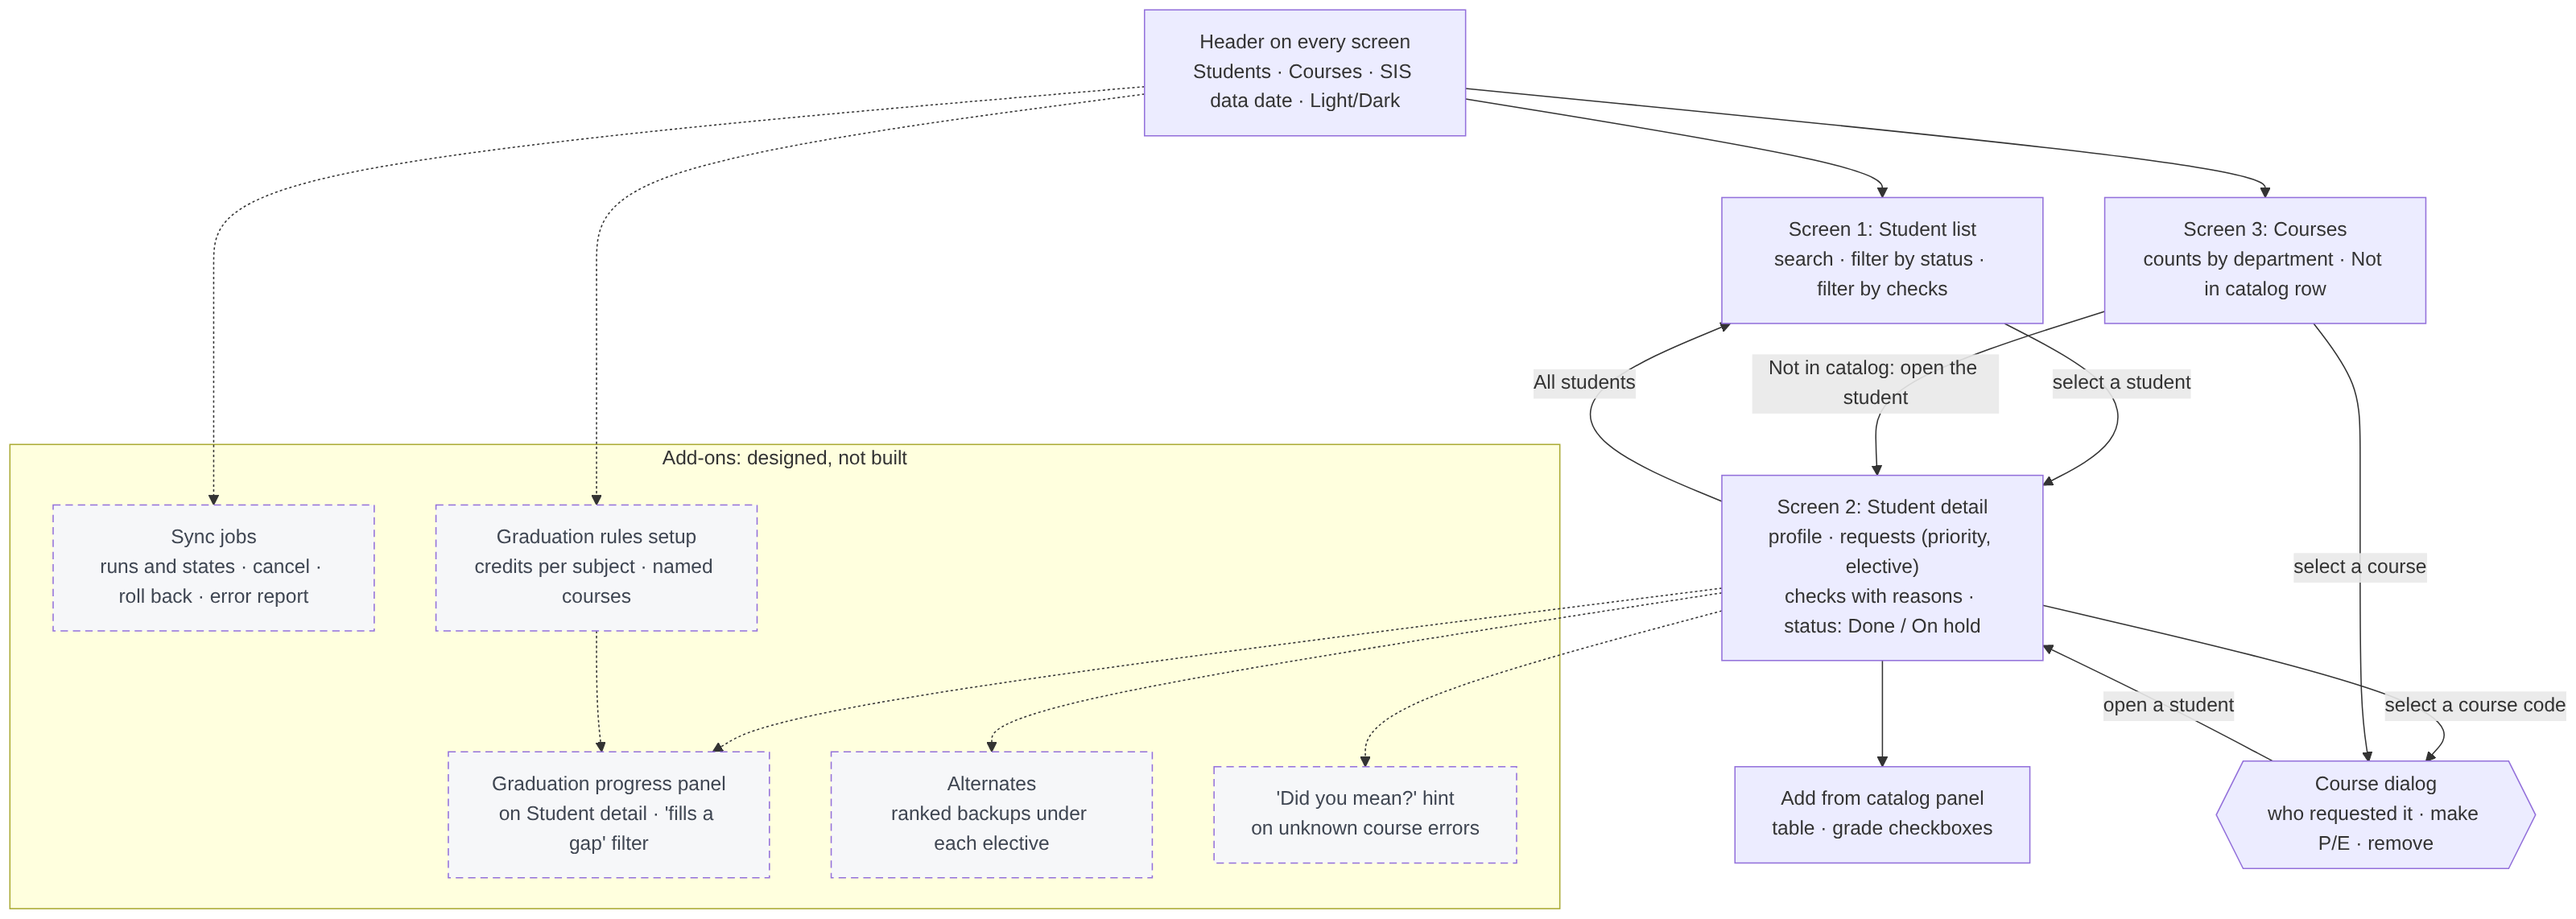
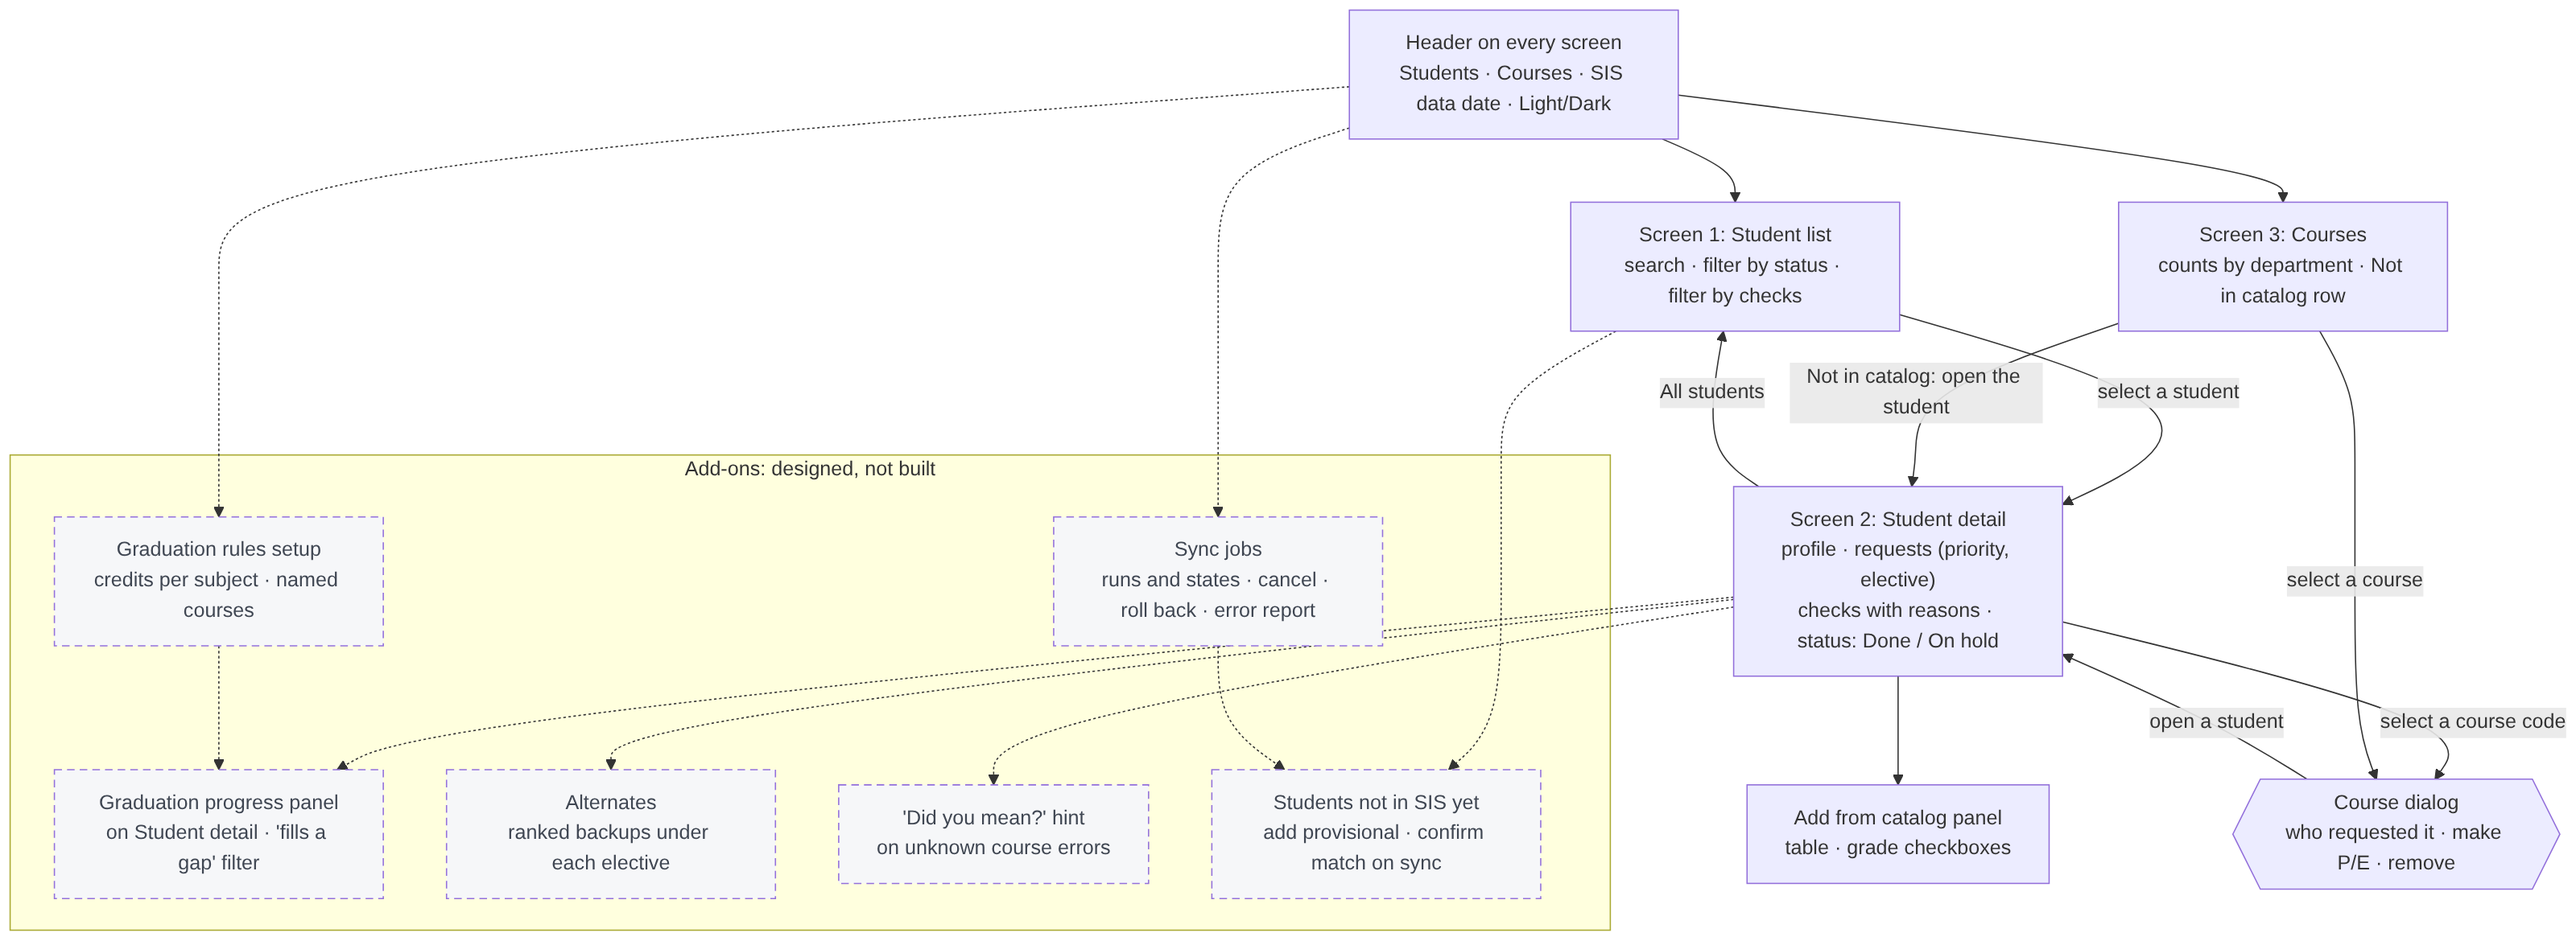
Log Q17: provisional students for SIS-missing transfers, add-on design
Claude-Session: https://claude.ai/code/session_016PjUpiGqPffv7nvHWyLZM3

diff --git a/docs/design/boards/AddonProvisional.dc.html b/docs/design/boards/AddonProvisional.dc.html
@@ -1,0 +1,87 @@
+<!doctype html>
+<html lang="en">
+<head>
+<meta charset="utf-8">
+<title>Provisional students (add-on)</title>
+<script src="./support.js"></script>
+</head>
+<body>
+<x-dc>
+<helmet>
+<link href="https://fonts.googleapis.com/css2?family=Inter:wght@400;500;600;700&amp;display=swap" rel="stylesheet">
+<style>body{margin:0}a{color:inherit;text-decoration:none}a:hover{text-decoration:underline}table{border-collapse:collapse}</style>
+</helmet>
+<div style="min-height: 1400px; background: #F6F7F9; color: #1A1D23; font-family: Inter, system-ui, sans-serif; font-size: 14px">
+  <header style="display: flex; flex-wrap: wrap; align-items: center; gap: 24px; padding: 0 32px; min-height: 60px; background: #FFFFFF; border-bottom: 1px solid #E2E5EA">
+    <div style="display: flex; align-items: center; gap: 10px; font-weight: 700; font-size: 16px">
+      <svg width="22" height="22" viewBox="0 0 24 24" fill="none" stroke="#2457C5" stroke-width="2" stroke-linecap="round" stroke-linejoin="round" aria-hidden="true"><path d="M4 19.5V5a2 2 0 0 1 2-2h14v16H6a2 2 0 0 0-2 2"></path><path d="M8 7h8M8 11h6"></path></svg>
+      <span>CourseManager</span>
+    </div>
+    <nav aria-label="Main" style="display: flex; gap: 4px">
+      <a href="Main.dc.html" aria-current="page" style="padding: 8px 14px; border-radius: 8px; font-weight: 600; background: #EAF0FC; color: #1D4AAA">Students</a>
+      <a href="Courses.dc.html" style="padding: 8px 14px; border-radius: 8px; font-weight: 500; color: #5B6270">Courses</a>
+    </nav>
+    <div style="flex-grow: 1"></div>
+    <span style="color: #5B6270">2027–28 course requests · SIS data as of Oct 27, 6:00 AM</span>
+    <span style="font-weight: 500">Ms. Lee · Counselor</span>
+  </header>
+  <div role="note" style="display: flex; flex-wrap: wrap; gap: 8px 16px; align-items: center; padding: 12px 32px; background: #F4F3FF; border-bottom: 1px solid #7A5AF8; color: #3E1C96">
+    <span style="display: inline-block; padding: 4px 10px; border-radius: 999px; font-size: 12px; font-weight: 600; background: #7A5AF8; color: #FFFFFF">Add-on · designed, not built</span>
+    <span>Plan for late transfers before the SIS has them, then match on sync with counselor confirmation (Q17).</span>
+  </div>
+  <main style="max-width: 1240px; margin: 0 auto; padding: 24px 32px 48px; display: flex; flex-direction: column; gap: 20px">
+    <div style="display: flex; flex-direction: column; gap: 4px">
+      <h1 style="margin: 0; font-size: 28px; font-weight: 700">Students not in the SIS yet</h1>
+      <p style="margin: 0; color: #5B6270">Plan for a late transfer now. When the SIS sends their record, confirm the match and their requests move over. (Q17)</p>
+    </div>
+    <div style="display: flex; flex-wrap: wrap; gap: 20px; align-items: flex-start">
+      <section aria-labelledby="add-h" style="flex: 1 1 420px; display: flex; flex-direction: column; gap: 14px; padding: 24px; border-radius: 12px; background: #FFFFFF; border: 1px solid #E2E5EA">
+        <h2 id="add-h" style="margin: 0; font-size: 18px; font-weight: 700">1. Add a provisional student</h2>
+        <div style="display: flex; flex-direction: column; gap: 6px"><label style="font-size: 12px; font-weight: 600; color: #5B6270">Name</label><input type="text" value="Daniel Kim" style="height: 44px; box-sizing: border-box; padding: 0 12px; border-radius: 8px; border: 1px solid #B8BEC8; background: #FFFFFF; color: #1A1D23; font: inherit"></div>
+        <div style="display: flex; flex-direction: column; gap: 6px"><label style="font-size: 12px; font-weight: 600; color: #5B6270">Incoming grade</label><select style="height: 44px; box-sizing: border-box; padding: 0 12px; border-radius: 8px; border: 1px solid #B8BEC8; background: #FFFFFF; color: #1A1D23; font: inherit"><option>Grade 9</option><option>Grade 10</option><option selected>Grade 11</option><option>Grade 12</option></select></div>
+        <div style="display: flex; flex-direction: column; gap: 6px"><label style="font-size: 12px; font-weight: 600; color: #5B6270">Previous school</label><input type="text" value="Lakeview High School" style="height: 44px; box-sizing: border-box; padding: 0 12px; border-radius: 8px; border: 1px solid #B8BEC8; background: #FFFFFF; color: #1A1D23; font: inherit"></div>
+        <div style="display: flex; flex-direction: column; gap: 6px"><label style="font-size: 12px; font-weight: 600; color: #5B6270">Note</label><input type="text" value="Transferring in August; transcript requested" style="height: 44px; box-sizing: border-box; padding: 0 12px; border-radius: 8px; border: 1px solid #B8BEC8; background: #FFFFFF; color: #1A1D23; font: inherit"></div>
+        <div style="display: flex; gap: 8px"><button type="button" style="height: 44px; padding: 0 16px; border-radius: 8px; border: none; background: #2457C5; color: #FFFFFF; font: inherit; font-weight: 600">Add student</button><button type="button" style="height: 44px; padding: 0 14px; border-radius: 8px; border: 1px solid #B8BEC8; background: #FFFFFF; color: #1A1D23; font: inherit">Cancel</button></div>
+        <p style="margin: 0; font-size: 12px; color: #5B6270">This is the only student record the app creates, and only until the SIS sends the real one.</p>
+      </section>
+      <section aria-labelledby="list-h" style="flex: 1 1 520px; display: flex; flex-direction: column; gap: 14px; padding: 24px; border-radius: 12px; background: #FFFFFF; border: 1px solid #E2E5EA">
+        <h2 id="list-h" style="margin: 0; font-size: 18px; font-weight: 700">2. On the student list</h2>
+        <table style="width: 100%">
+          <thead><tr><th scope="col" style="padding: 10px 12px; border-bottom: 1px solid #E2E5EA; font-size: 12px; text-transform: uppercase; letter-spacing: 0.04em; color: #5B6270; font-weight: 600; text-align: left">Student</th><th scope="col" style="padding: 10px 12px; border-bottom: 1px solid #E2E5EA; font-size: 12px; text-transform: uppercase; letter-spacing: 0.04em; color: #5B6270; font-weight: 600; text-align: left">Grade</th><th scope="col" style="padding: 10px 12px; border-bottom: 1px solid #E2E5EA; font-size: 12px; text-transform: uppercase; letter-spacing: 0.04em; color: #5B6270; font-weight: 600; text-align: left">Requests</th><th scope="col" style="padding: 10px 12px; border-bottom: 1px solid #E2E5EA; font-size: 12px; text-transform: uppercase; letter-spacing: 0.04em; color: #5B6270; font-weight: 600; text-align: left">Status</th></tr></thead>
+          <tbody>
+            <tr style="background: #F4F3FF"><td style="padding: 12px; border-bottom: 1px solid #E2E5EA"><b>Daniel Kim</b> <span style="display: inline-block; padding: 4px 10px; border-radius: 999px; font-size: 12px; font-weight: 600; background: #FFF8EB; color: #93370D">Not in SIS yet</span><div style="font-size: 12px; color: #5B6270">Provisional · added Oct 27 by Ms. Lee</div></td><td style="padding: 12px; border-bottom: 1px solid #E2E5EA">11</td><td style="padding: 12px; border-bottom: 1px solid #E2E5EA">4 P · 1 E</td><td style="padding: 12px; border-bottom: 1px solid #E2E5EA"><span style="display: inline-block; padding: 4px 10px; border-radius: 999px; font-size: 12px; font-weight: 600; background: #EAF0FC; color: #1D4AAA">In progress</span></td></tr>
+            <tr><td style="padding: 12px; border-bottom: 1px solid #E2E5EA"><b>Nina Torres</b><div style="font-size: 12px; color: #5B6270">S010</div></td><td style="padding: 12px; border-bottom: 1px solid #E2E5EA">12</td><td style="padding: 12px; border-bottom: 1px solid #E2E5EA">1 P · 2 E</td><td style="padding: 12px; border-bottom: 1px solid #E2E5EA"><span style="display: inline-block; padding: 4px 10px; border-radius: 999px; font-size: 12px; font-weight: 600; background: #F4EBFF; color: #6927DA">On hold</span></td></tr>
+          </tbody>
+        </table>
+        <p style="margin: 0; font-size: 12px; color: #5B6270">Requests are built the same way. Done is allowed, but the list can't go to scheduling until the student is matched.</p>
+      </section>
+    </div>
+    <section aria-labelledby="match-h" style="display: flex; flex-direction: column; gap: 14px; padding: 24px; border-radius: 12px; background: #FFFFFF; border: 1px solid #E2E5EA; border-color: #2457C5">
+      <h2 id="match-h" style="margin: 0; font-size: 18px; font-weight: 700">3. After a sync: confirm the match</h2>
+      <p style="margin: 0">Sync run #1051 brought in a new SIS student who may be Daniel. Nothing merges until you confirm.</p>
+      <div style="overflow-x: auto">
+      <table style="width: 100%; min-width: 640px">
+        <thead><tr><th scope="col" style="padding: 10px 12px; border-bottom: 1px solid #E2E5EA; font-size: 12px; text-transform: uppercase; letter-spacing: 0.04em; color: #5B6270; font-weight: 600; text-align: left"></th><th scope="col" style="padding: 10px 12px; border-bottom: 1px solid #E2E5EA; font-size: 12px; text-transform: uppercase; letter-spacing: 0.04em; color: #5B6270; font-weight: 600; text-align: left">Provisional (in app)</th><th scope="col" style="padding: 10px 12px; border-bottom: 1px solid #E2E5EA; font-size: 12px; text-transform: uppercase; letter-spacing: 0.04em; color: #5B6270; font-weight: 600; text-align: left">New SIS record</th></tr></thead>
+        <tbody>
+          <tr><td style="padding: 12px; border-bottom: 1px solid #E2E5EA"><b>Name</b></td><td style="padding: 12px; border-bottom: 1px solid #E2E5EA">Daniel Kim</td><td style="padding: 12px; border-bottom: 1px solid #E2E5EA">Daniel J. Kim</td></tr>
+          <tr><td style="padding: 12px; border-bottom: 1px solid #E2E5EA"><b>Grade</b></td><td style="padding: 12px; border-bottom: 1px solid #E2E5EA">11</td><td style="padding: 12px; border-bottom: 1px solid #E2E5EA">11</td></tr>
+          <tr><td style="padding: 12px; border-bottom: 1px solid #E2E5EA"><b>ID</b></td><td style="padding: 12px; border-bottom: 1px solid #E2E5EA">—</td><td style="padding: 12px; border-bottom: 1px solid #E2E5EA">S011</td></tr>
+          <tr><td style="padding: 12px; border-bottom: 1px solid #E2E5EA"><b>Previous school</b></td><td style="padding: 12px; border-bottom: 1px solid #E2E5EA">Lakeview High School</td><td style="padding: 12px; border-bottom: 1px solid #E2E5EA"><span style="color: #5B6270">Not sent by SIS</span></td></tr>
+          <tr><td style="padding: 12px; border-bottom: 1px solid #E2E5EA"><b>Requests</b></td><td style="padding: 12px; border-bottom: 1px solid #E2E5EA">5 (4 P · 1 E)</td><td style="padding: 12px; border-bottom: 1px solid #E2E5EA">None</td></tr>
+        </tbody>
+      </table>
+      </div>
+      <div style="display: flex; flex-wrap: wrap; gap: 8px"><button type="button" style="height: 44px; padding: 0 16px; border-radius: 8px; border: none; background: #2457C5; color: #FFFFFF; font: inherit; font-weight: 600">Same student: move 5 requests to S011</button><button type="button" style="height: 44px; padding: 0 14px; border-radius: 8px; border: 1px solid #B8BEC8; background: #FFFFFF; color: #1A1D23; font: inherit">Not the same student</button></div>
+      <p style="margin: 0; font-size: 12px; color: #5B6270">Moved requests keep "Added in app", so future syncs never overwrite them (Q2). A provisional student still unmatched after 30 days is flagged on Sync jobs (the 30 days is a placeholder to set with the school).</p>
+    </section>
+    <p style="margin: 0; font-size: 12px; color: #5B6270">Sample student for illustration; Daniel Kim is not in the exercise data.</p>
+  </main>
+</div>
+</x-dc>
+<script type="text/x-dc" data-dc-script data-props='{"$preview":{"width":1440,"height":1400}}'>
+class Component extends DCLogic {
+  renderVals() { return {}; }
+}
+</script>
+</body>
+</html>

diff --git a/docs/decisions/q017-provisional-students.md b/docs/decisions/q017-provisional-students.md
@@ -1,0 +1,37 @@
+---
+id: q017-provisional-students
+title: Students missing from the SIS (late transfers) get a provisional record, designed as an add-on
+status: current
+decided: 2026-10-27, by Stephen
+---
+
+<a id="q017"></a>
+# Q17: How do we handle students missing from the SIS, like late transfers?
+
+## Context
+
+Stephen (2026-10-27): there's no way to plan for a student "missing" from the SIS import, such as a last-minute transfer who wasn't here last season. Students are SIS-owned and read-only (a project non-negotiable), so today such a student has no record until the registrar enrolls them and a sync runs.
+
+## Options
+
+| Option | Tradeoffs |
+|---|---|
+| A. Design as an add-on, don't build | Shows the gap and a safe fix; read-only rule intact in the prototype; no build cost |
+| B. Build provisional students | Usable now; relaxes the read-only rule; build time |
+| C. SIS only: enroll, then sync | No app change; counselor waits on the registrar; needs an on-demand sync |
+
+## Resolution
+
+**A.** Designed, not built. The planned add-on:
+
+- A counselor adds a **provisional student** (name, incoming grade, previous school, note), clearly marked "Not in SIS yet", and builds requests as usual. It is the one student record the app owns, and only until the SIS sends the real one.
+- When a sync brings in a new SIS student, possible matches (same name and grade) are shown to the counselor to **confirm**; nothing auto-merges, so two different students are never joined. On confirm, the requests move to the SIS student, keep `source = app` (Q2), and the provisional record is closed.
+- Provisional students the SIS still hasn't sent after a set time are flagged on the sync jobs view (Q14).
+- Option C's on-demand sync stays useful alongside this and goes in the SIS design.
+
+## Impacts (all updated in the same change)
+
+- [x] Requirements: `requirements/gaps.md` (G33)
+- [x] Design: `design/README.md` add-on row, `AddonProvisional.dc.html` board
+- [ ] SIS sync design doc: not written yet; it must cover match-on-sync and on-demand sync
+- [x] Decisions index row

diff --git a/docs/design/site-map.md b/docs/design/site-map.md
@@ -8,7 +8,7 @@ updated: 2026-10-27
 
 # Site map
 
-Solid boxes are in the core build. Dashed boxes are add-ons that are designed but not built (Q5 option D, Q14, Q15, Q16). Every screen shares one header: Students, Courses, the SIS data date, the signed-in name and the light/dark toggle.
+Solid boxes are in the core build. Dashed boxes are add-ons that are designed but not built (Q5 option D, Q14, Q15, Q16, Q17). Every screen shares one header: Students, Courses, the SIS data date, the signed-in name and the light/dark toggle.
 
 ![Site map](img/site-map.png)
 
@@ -34,6 +34,7 @@ flowchart TD
         GP["Graduation progress panel<br/>on Student detail · 'fills a gap' filter"]
         ALT["Alternates<br/>ranked backups under each elective"]
         DYM["'Did you mean?' hint<br/>on unknown course errors"]
+        PROV["Students not in SIS yet<br/>add provisional · confirm match on sync"]
     end
 
     H -.-> JOBS
@@ -42,9 +43,11 @@ flowchart TD
     SD -.-> ALT
     SD -.-> DYM
     RULES -.-> GP
+    SL -.-> PROV
+    JOBS -.-> PROV
 
     classDef addon stroke-dasharray: 6 4,fill:#F6F7F9,color:#3F4652;
-    class JOBS,RULES,GP,ALT,DYM addon;
+    class JOBS,RULES,GP,ALT,DYM,PROV addon;
 ```
 
 | Screen or dialog | Reached from | Decisions |
@@ -56,3 +59,4 @@ flowchart TD
 | Sync jobs (add-on) | Header, for an admin | Q13, Q14 |
 | Graduation rules setup (add-on) | Header, for a district admin | Q15 |
 | Graduation progress, Alternates, Did you mean (add-ons) | Inside Student detail | Q15, Q16, Q5 D |
+| Students not in SIS yet (add-on) | Student list; flagged on Sync jobs | Q17 |

diff --git a/docs/requirements/gaps.md b/docs/requirements/gaps.md
@@ -86,6 +86,7 @@ These are places where two parts of the document can't both be right. They matte
 | G30 | Audience for the design doc | "Engineering team and product partner": two audiences with different needs | Ours to decide: write the decisions for product, the flow for engineers |
 | G31 | What "new input" will come in the follow-up | We should be ready to iterate live | Ours to prepare: keep the design modular around the decisions most likely to flip (G21, G23, G24) |
 | G32 | Open slots, alternates, group requests | Every request is one course code; nothing lets the optimizer choose (raised by Stephen 2026-10-27). The prompt also never gives a course or period load per student | "Do schools give the optimizer alternates or 'any one from this group' requests, and does the SIS carry them? How many courses must a student request?" Alternates designed, not built ([Q16](../decisions/q016-alternate-requests.md)); group requests a follow-up question |
+| G33 | Students missing from the SIS (late transfers) | Students are read-only from the SIS, so a counselor can't plan for someone not yet enrolled (raised by Stephen 2026-10-27) | "How fast do new enrollments reach the SIS, and do counselors plan before that?" Provisional student, matched on sync, designed not built ([Q17](../decisions/q017-provisional-students.md)) |
 
 ## 3. Types of questions, and when to ask each
 

diff --git a/docs/decisions/README.md b/docs/decisions/README.md
@@ -28,3 +28,4 @@ One file per decision (`q0NN-<slug>.md`, template in `.claude/process-kit/templa
 | [Q14](q014-sis-sync-on-queue.md) | SIS sync runs as jobs on RabbitMQ (Timely's queue) with a jobs view to monitor background work; prototype uses an in-process queue behind an interface | current | 2026-10-27, Stephen |
 | [Q15](q015-history-and-grad-rules.md) | Student history (transcript feed) and graduation rules are designed as seams, not built; Q4 core check holds the place | current | 2026-10-27, Stephen |
 | [Q16](q016-alternate-requests.md) | Alternate requests designed (alternate_for + rank on electives), not built; ready to add live in the follow-up | current | 2026-10-27, Stephen |
+| [Q17](q017-provisional-students.md) | Students missing from the SIS get a provisional record matched on sync with counselor confirmation; designed as an add-on, not built | current | 2026-10-27, Stephen |

diff --git a/docs/design/README.md b/docs/design/README.md
@@ -40,3 +40,4 @@ Shown to the reviewer to explain where the product goes next. Each board carries
 | `AddonGradProgress.dc.html` | Graduation progress from a transcript plus district rules; "fills a gap" filter; rules setup | Q15 |
 | `AddonAlternates.dc.html` | Ranked backups under electives; backups counted apart on Courses | Q16 |
 | `AddonDidYouMean.dc.html` | Suggested fix for unknown or duplicate SIS codes, confirmed by the counselor | Q5 option D |
+| `AddonProvisional.dc.html` | Students not in the SIS yet: provisional record, matched on sync with counselor confirmation | Q17 |
